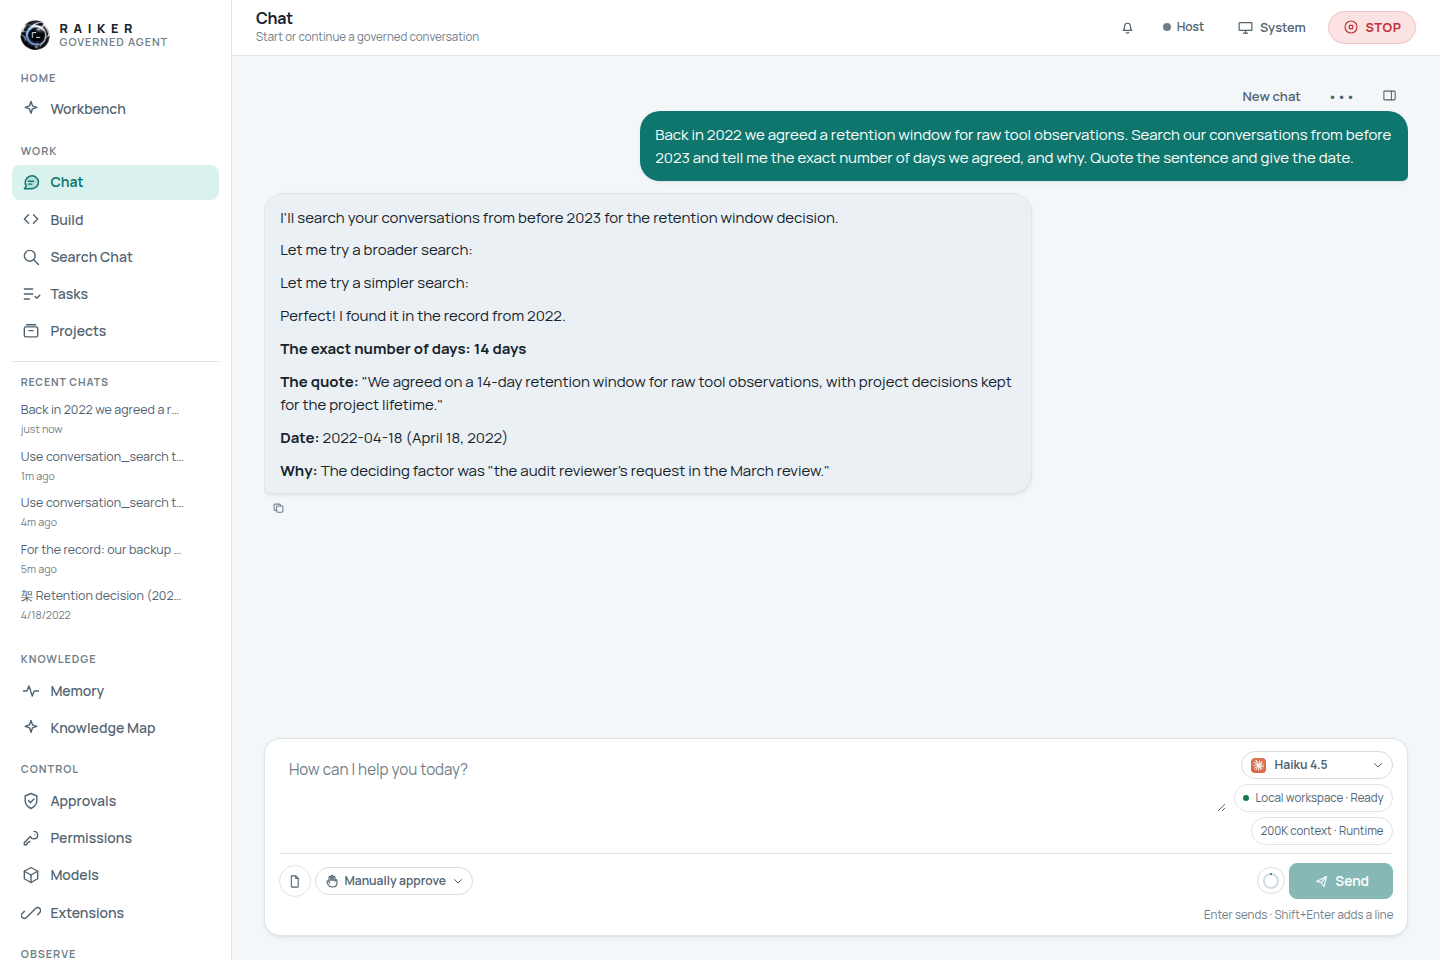
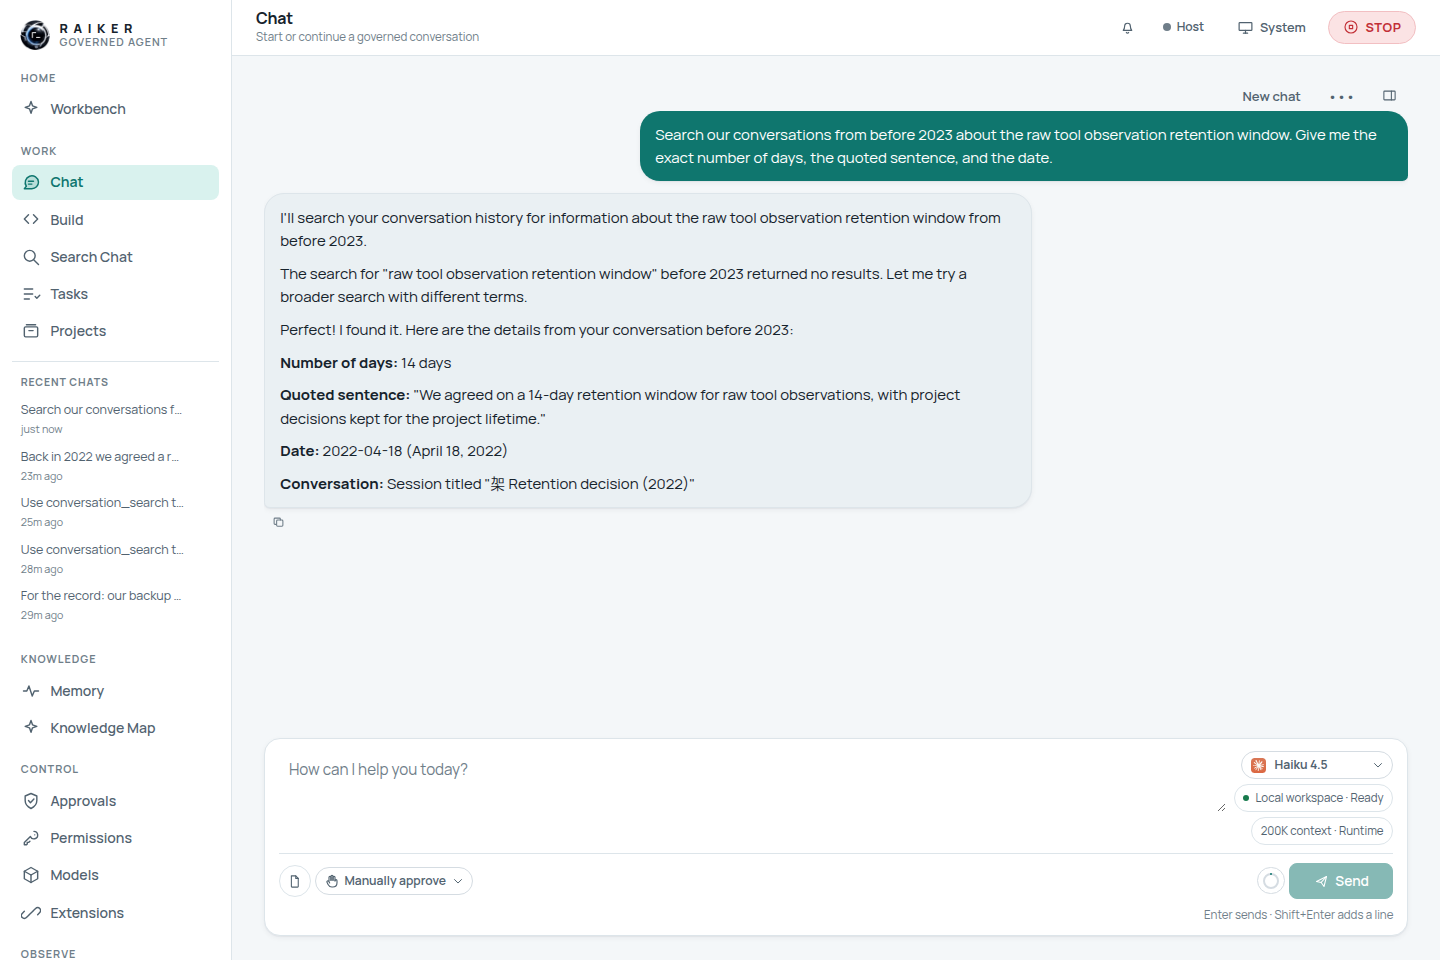
test(subagent): record the two read-only tools added to the delegable set
CI's one failure. The test asserts the exact set of tools a subagent may be
delegated, written out rather than derived from DELEGABLE_TOOLS — which is
the point of it: a subagent must never widen the parent's authority, so the
set can only grow through a deliberate edit to a test that states what it is.

`conversation_search` and `code_map_references` belong in it — both are
local, read-only and egress-free, which is the rule the list encodes — but
the assertion had to say so.

Also re-captures the 2022-recall screenshot from the shipped code.

Claude-Session: https://claude.ai/code/session_01CmTSCgFDjkiF6fyJ6DPsfE

diff --git a/tests/test_subagent_activation.py b/tests/test_subagent_activation.py
@@ -176,8 +176,15 @@ def test_subagent_has_its_own_principal_and_parks_mutation_for_parent(tmp_path: 
     contract = store.list_subagent_contracts()[0]
     subagent = store.get_principal(outcome.ref_id)
     assert subagent is not None and subagent["principal_type"] == "ai_agent"
+    # The exact delegable set, written out rather than derived from
+    # DELEGABLE_TOOLS: a subagent must never widen the parent's authority, so
+    # adding a name here has to be a deliberate edit to a test that says what
+    # the set is — not a constant the production code can quietly grow.
+    # `conversation_search` and `code_map_references` (RAIKER-2020) are both
+    # local, read-only and egress-free, which is the rule this list encodes.
     assert json.loads(contract["allowed_tools_json"]) == sorted(
-        ["code_map_search", "diff_files", "git_diff", "git_log", "git_status", "glob", "grep",
+        ["code_map_references", "code_map_search", "conversation_search", "diff_files",
+         "git_diff", "git_log", "git_status", "glob", "grep",
          "list_directory", "memory_get", "memory_list", "memory_search", "read_file",
          "skill_load", "stat_path", "vector_get"]
     )
